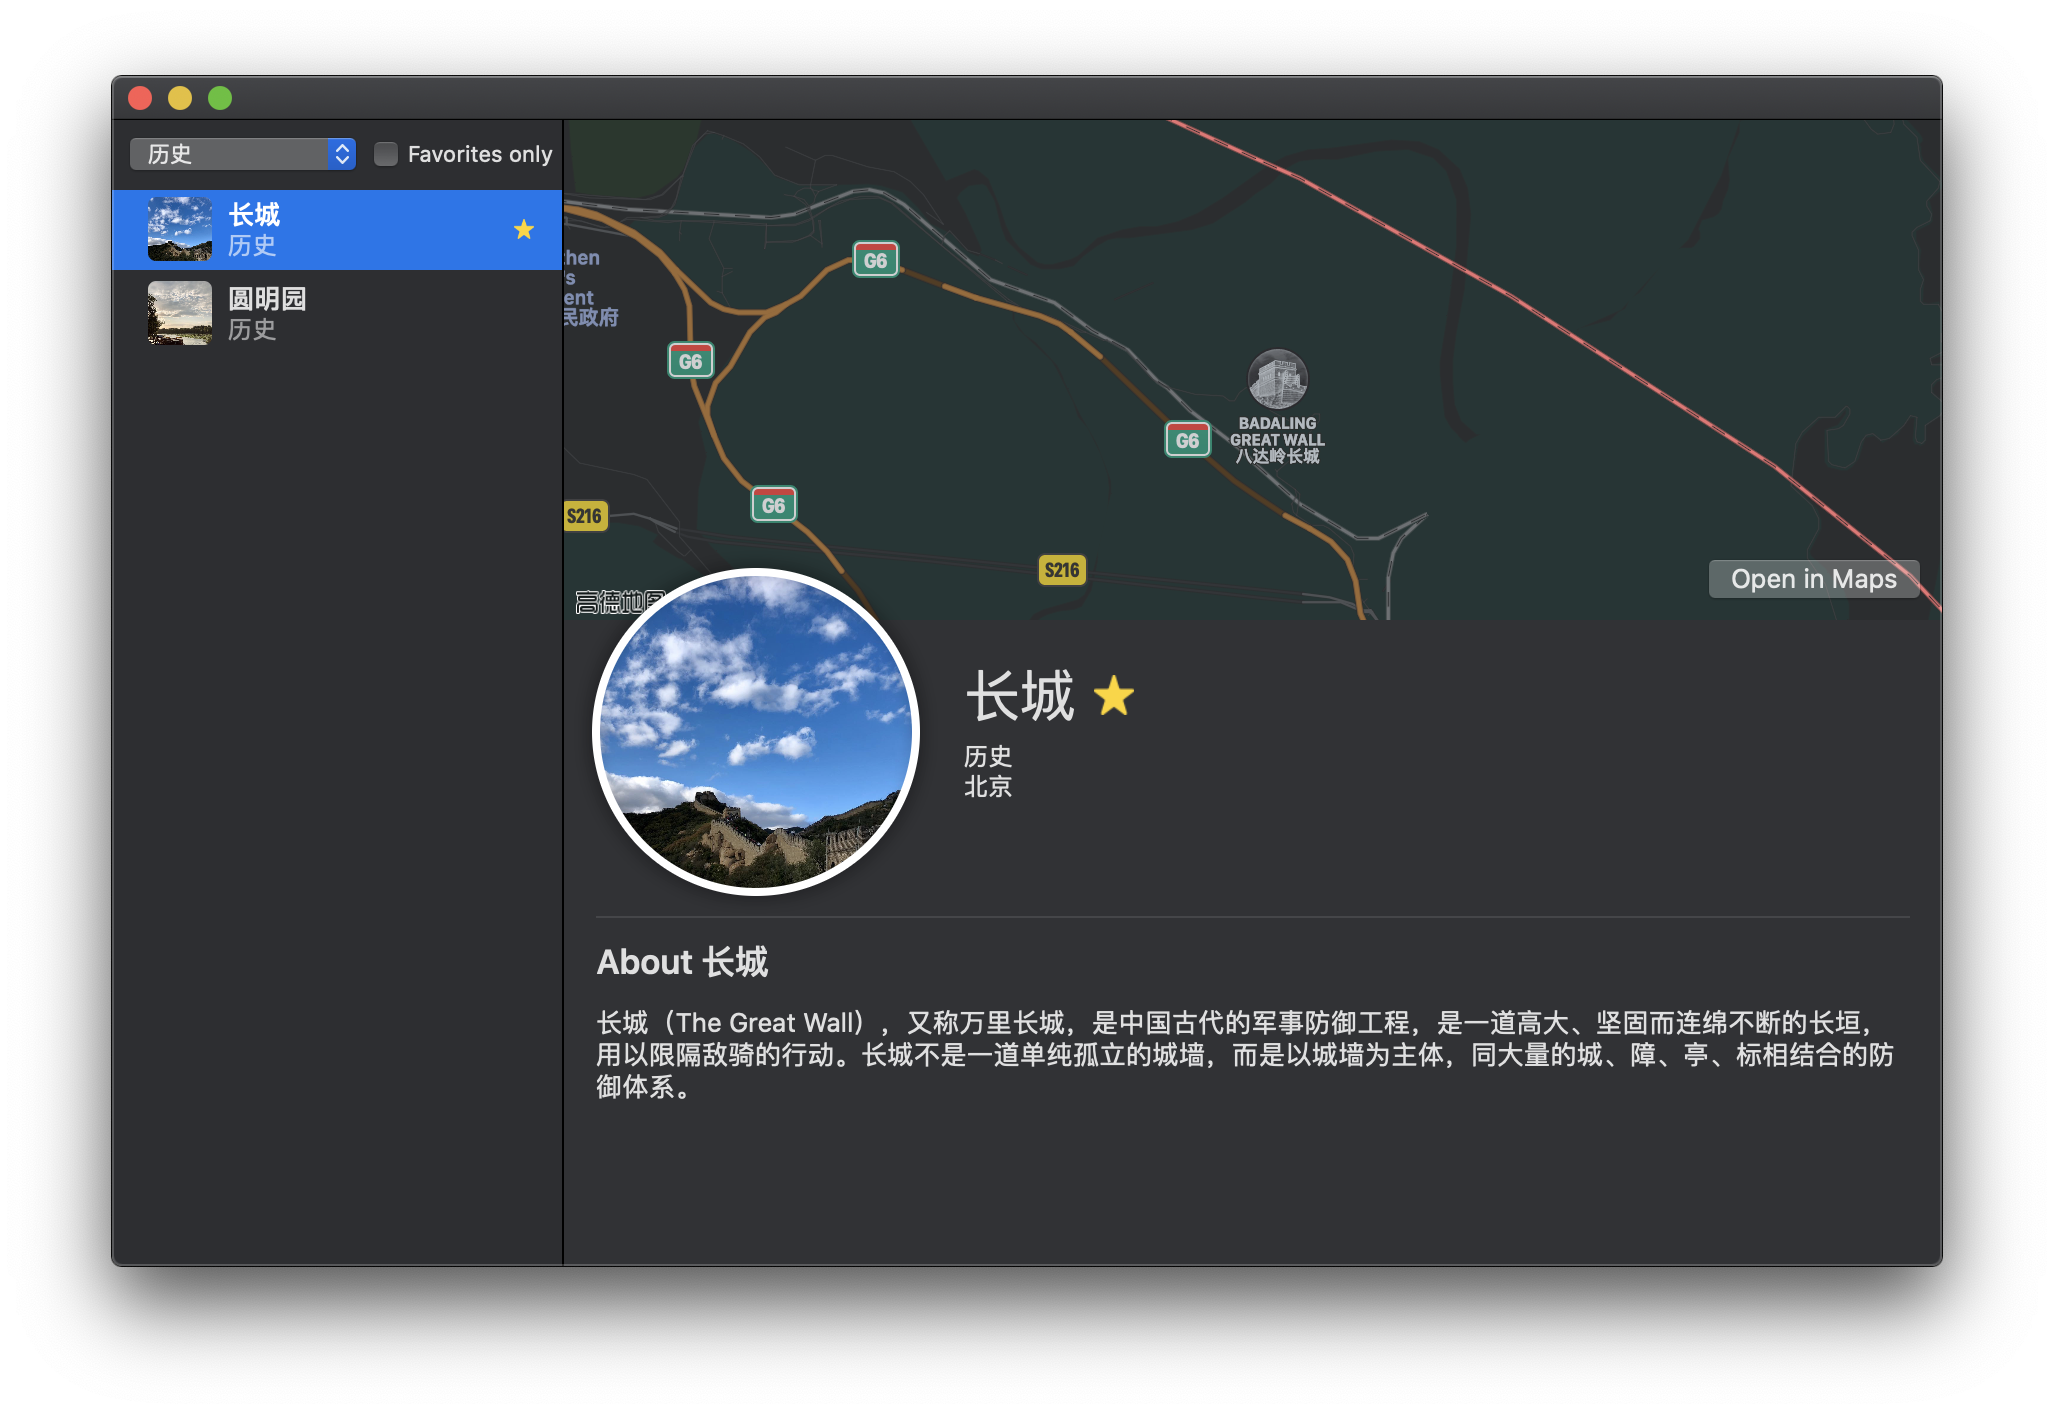
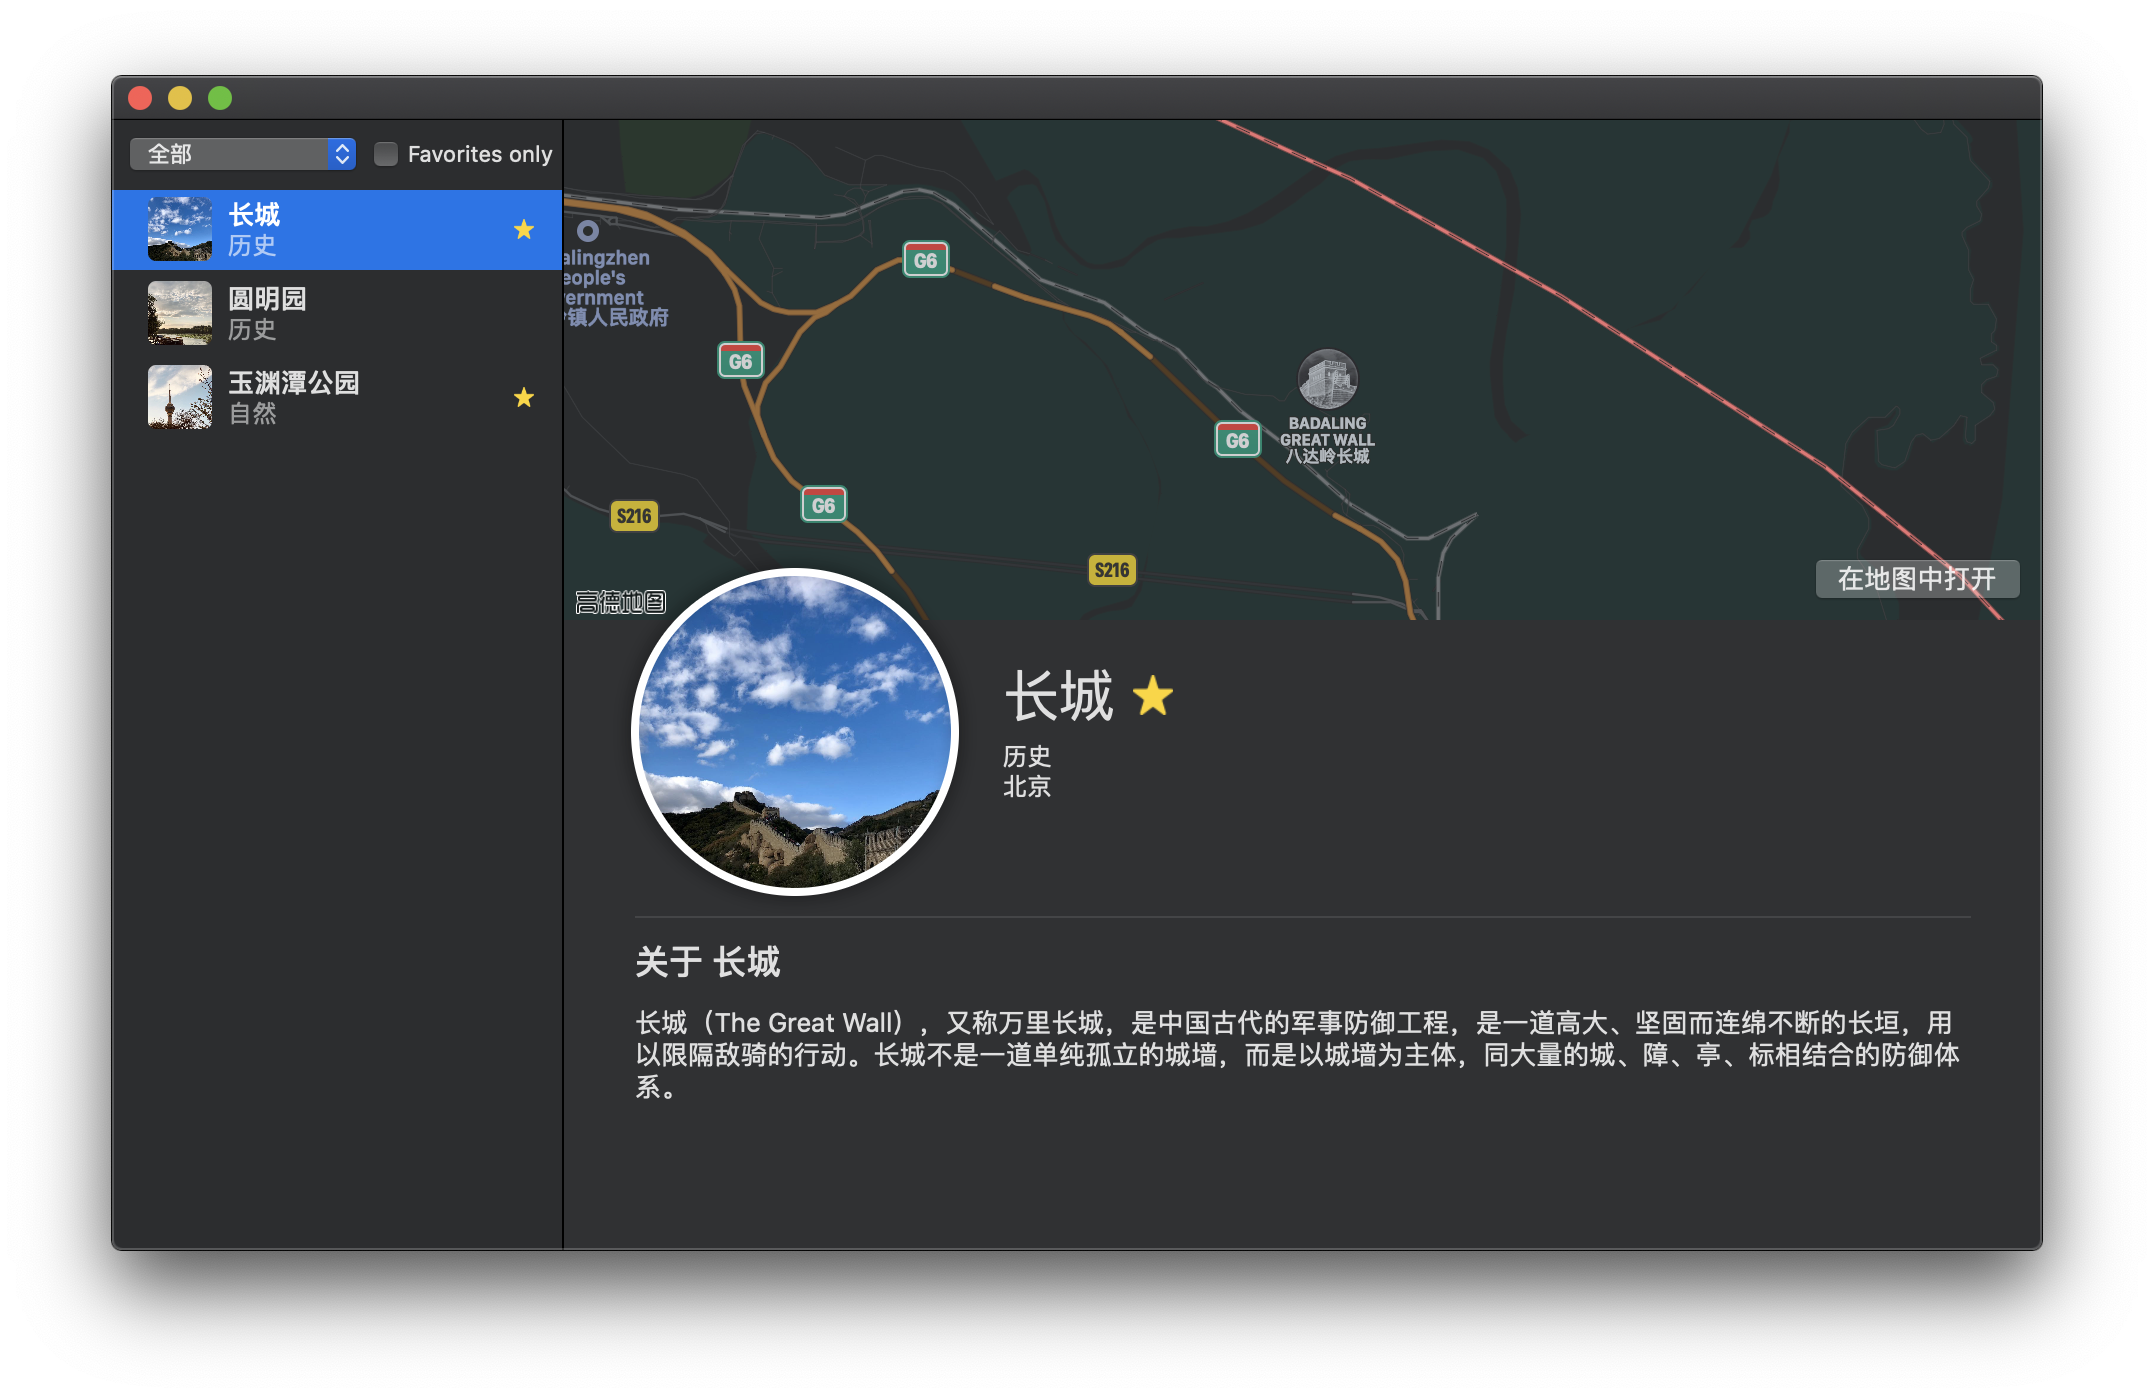
Add some comment

diff --git a/apple-demos/04-Framework Integration/Mac/NavigationDetail.swift b/apple-demos/04-Framework Integration/Mac/NavigationDetail.swift
@@ -24,19 +24,22 @@ struct NavigationDetail: View {
                 .frame(height: 250)
                 .overlay(
                     GeometryReader { proxy in
-                        Button("Open in Maps") {
+                        Button("在地图中打开") {
                             let destination = MKMapItem(placemark: MKPlacemark(coordinate: self.scene.locationCoordinate))
                             destination.name = self.scene.name
                             destination.openInMaps()
                         }
-                        .frame(width: proxy.size.width, height: proxy.size.height, alignment: .bottomTrailing)
+                        .frame(width: proxy.size.width,
+                               height: proxy.size.height,
+                               alignment: .bottomTrailing)
                         .offset(x: -10, y: -10)
                     }
             )
             
             VStack(alignment: .leading, spacing: 12) {
                 HStack(alignment: .center, spacing: 24) {
-                    CircleImage(image: scene.image.resizable(), shadowRadius: 4)
+                    CircleImage(image: scene.image.resizable(),
+                                shadowRadius: 4)
                         .frame(width: 160, height: 160)
                     
                     VStack(alignment: .leading) {
@@ -73,7 +76,7 @@ struct NavigationDetail: View {
                 
                 Divider()
                 
-                Text("About \(scene.name)")
+                Text("关于 \(scene.name)")
                     .font(.headline)
                 
                 Text(scene.description)

diff --git a/apple-demos/04-Framework Integration/04-Framework Integration/Supporting Views/MapView.swift b/apple-demos/04-Framework Integration/04-Framework Integration/Supporting Views/MapView.swift
@@ -26,6 +26,7 @@ struct MapView {
 
 #if os(macOS)
 
+// macOS 上继承 NSViewRepresentable
 extension MapView: NSViewRepresentable {
     func makeNSView(context: Context) -> MKMapView {
         makeMapView()
@@ -38,6 +39,7 @@ extension MapView: NSViewRepresentable {
 
 #else
 
+// iOS 继承 UIViewRepresentable
 extension MapView: UIViewRepresentable {
     func makeUIView(context: Context) -> MKMapView {
         makeMapView()

diff --git a/apple-demos/04-Framework Integration/Mac/Filter.swift b/apple-demos/04-Framework Integration/Mac/Filter.swift
@@ -50,7 +50,8 @@ struct FilterType: CaseIterable, Hashable, Identifiable  {
         self.category = nil
     }
     
-    static var all = FilterType(name: "All")
+    // 默认的「全部」选项
+    static var all = FilterType(name: "全部")
     
     static var allCases: [FilterType] {
         return [.all] + Scene.Category.allCases.map(FilterType.init)
